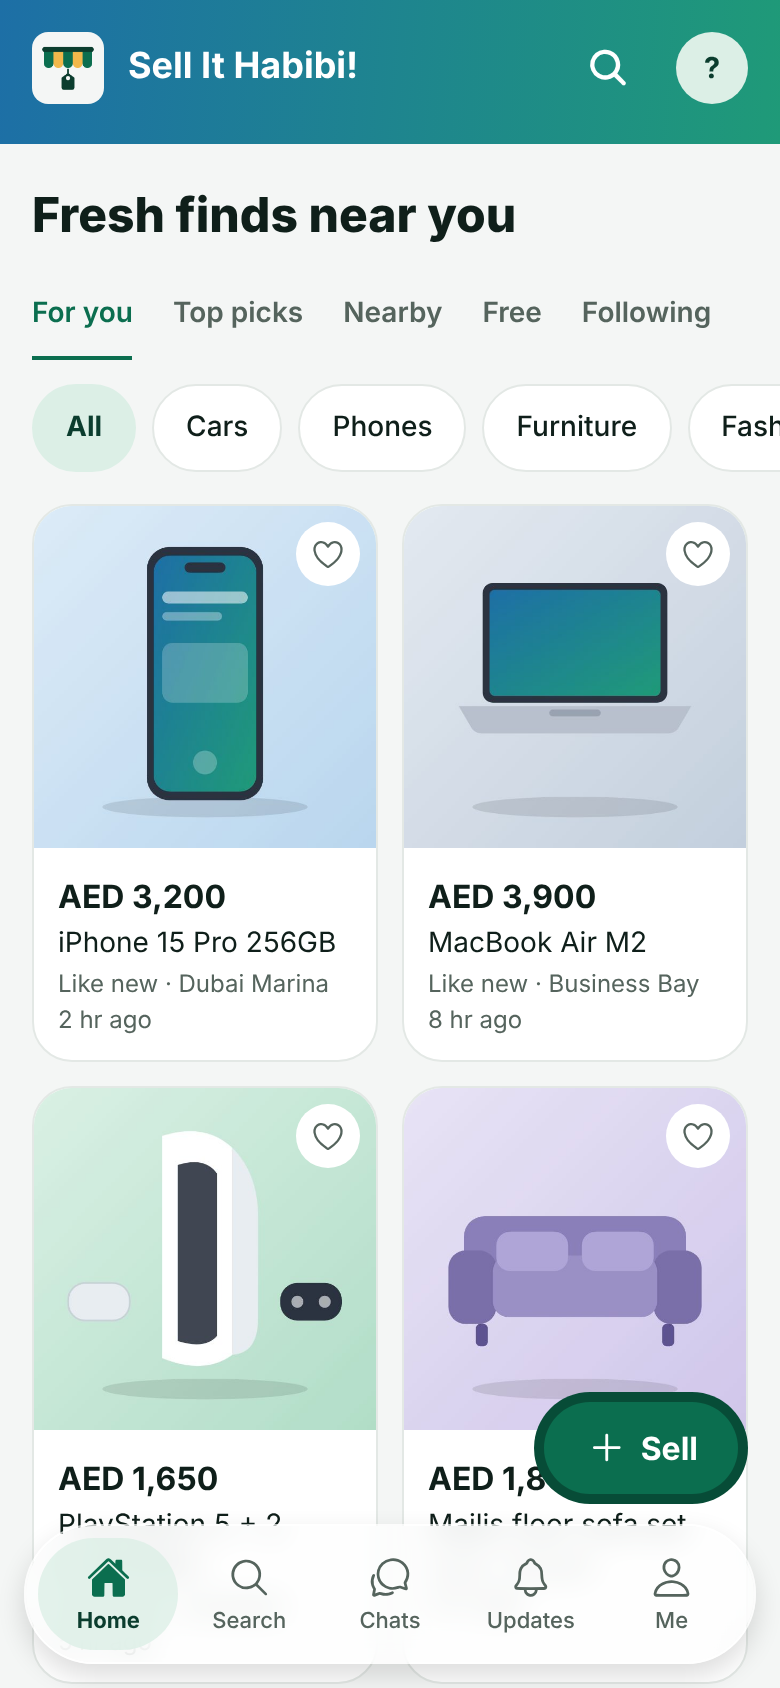
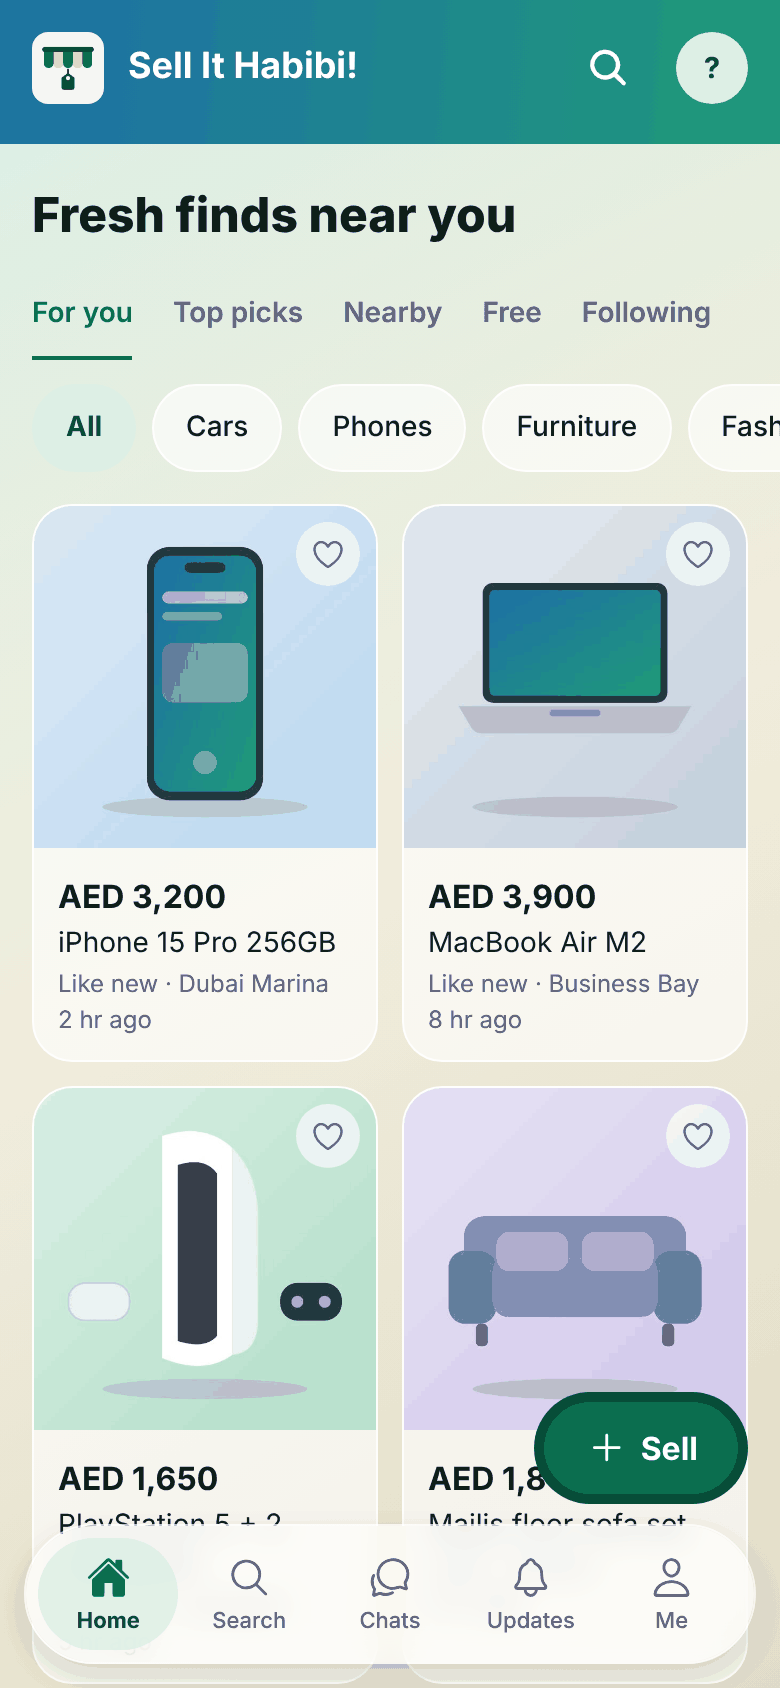
Frosted and Classic looks across the app, chosen in Settings
Claude-Session: https://claude.ai/code/session_01Uz4Rt3sdvRf6DwBthvUspD

diff --git a/providers/prefs-provider.tsx b/providers/prefs-provider.tsx
@@ -4,11 +4,12 @@ import { createContext, useCallback, useContext, useEffect, useMemo, useState, t
 import { I18nManager, Platform } from 'react-native';
 
 import { DEFAULT_COUNTRY, getCountry, type Country, type CountryCode } from '@/constants/countries';
+import { type Look } from '@/constants/looks';
 import { isRtl, translate, type Language, type TranslationKey } from '@/i18n';
 
 const KEY = 'sih.prefs.v1';
 
-type Stored = { language?: Language; country?: CountryCode; notifications?: boolean };
+type Stored = { language?: Language; country?: CountryCode; notifications?: boolean; look?: Look };
 
 type Prefs = {
   ready: boolean;
@@ -21,6 +22,8 @@ type Prefs = {
   /** BCP 47 tag for Intl formatting. Latin digits are kept on purpose; they are common across the Gulf. */
   locale: string;
   notifications: boolean;
+  look: Look;
+  setLook: (l: Look) => void;
   setLanguage: (l: Language) => void;
   setCountry: (c: CountryCode) => void;
   setNotifications: (on: boolean) => void;
@@ -42,6 +45,7 @@ export function PrefsProvider({ children }: { children: ReactNode }) {
   const [language, setLang] = useState<Language>('en');
   const [countryCode, setCountryCode] = useState<CountryCode>(DEFAULT_COUNTRY);
   const [notifications, setNotif] = useState(true);
+  const [look, setLookState] = useState<Look>('frosted');
 
   useEffect(() => {
     (async () => {
@@ -55,6 +59,7 @@ export function PrefsProvider({ children }: { children: ReactNode }) {
       setLang(stored.language ?? defaults.language);
       setCountryCode(stored.country ?? defaults.country);
       setNotif(stored.notifications ?? true);
+      setLookState(stored.look === 'classic' ? 'classic' : 'frosted');
       setReady(true);
     })();
   }, []);
@@ -92,6 +97,11 @@ export function PrefsProvider({ children }: { children: ReactNode }) {
       currency: country.currency,
       locale: language === 'ar' ? 'ar-AE-u-nu-latn' : 'en-AE',
       notifications,
+      look,
+      setLook: (l) => {
+        setLookState(l);
+        persist({ look: l });
+      },
       setLanguage: (l) => {
         setLang(l);
         persist({ language: l });
@@ -106,7 +116,7 @@ export function PrefsProvider({ children }: { children: ReactNode }) {
       },
       t: (key, vars) => translate(language, key, vars),
     };
-  }, [ready, language, rtl, countryCode, notifications, persist]);
+  }, [ready, language, rtl, countryCode, notifications, look, persist]);
 
   return <Ctx.Provider value={value}>{children}</Ctx.Provider>;
 }

diff --git a/components/ui/frost.tsx b/components/ui/frost.tsx
@@ -2,25 +2,30 @@ import { BlurView } from 'expo-blur';
 import type { ReactNode } from 'react';
 import { StyleSheet, View, useColorScheme, type StyleProp, type ViewStyle } from 'react-native';
 
+import { usePrefs } from '@/providers/prefs-provider';
+
 type Props = { children: ReactNode; className?: string; style?: StyleProp<ViewStyle>; intensity?: number };
 
 /**
- * Frosted-glass surface, as in the Family Expenses app: the content behind it shows through, blurred,
- * under a translucent tint and a hairline edge. Callers supply shape (rounded-*) and padding.
+ * Floating chrome (tab bar, pinned footers, sheets). Frosted look: the content behind it shows through, blurred,
+ * under a translucent tint and a hairline edge. Classic look: a flat solid surface with a plain border.
+ * Callers supply shape (rounded-*) and padding.
  */
 export function Frost({ children, className = '', style, intensity = 40 }: Props) {
+  const { look } = usePrefs();
   const dark = useColorScheme() === 'dark';
+  const shadow = { shadowColor: '#000', shadowOpacity: dark ? 0.35 : 0.14, shadowRadius: 14, shadowOffset: { width: 0, height: 6 }, elevation: 6 };
+
+  if (look !== 'frosted') {
+    return (
+      <View className={`overflow-hidden border border-line bg-surface dark:border-line-dark dark:bg-surface-dark ${className}`} style={[{ ...shadow, shadowOpacity: shadow.shadowOpacity * 0.7, elevation: 4 }, style]}>
+        {children}
+      </View>
+    );
+  }
   return (
-    <View
-      className={`overflow-hidden border ${dark ? 'border-white/10' : 'border-white/70'} ${className}`}
-      style={[{ shadowColor: '#000', shadowOpacity: dark ? 0.35 : 0.14, shadowRadius: 14, shadowOffset: { width: 0, height: 6 }, elevation: 6 }, style]}>
-      <BlurView
-        pointerEvents="none"
-        intensity={intensity}
-        tint={dark ? 'dark' : 'light'}
-        blurMethod="dimezisBlurViewSdk31Plus"
-        style={StyleSheet.absoluteFill}
-      />
+    <View className={`overflow-hidden border ${dark ? 'border-white/10' : 'border-white/70'} ${className}`} style={[shadow, style]}>
+      <BlurView pointerEvents="none" intensity={intensity} tint={dark ? 'dark' : 'light'} blurMethod="dimezisBlurViewSdk31Plus" style={StyleSheet.absoluteFill} />
       <View pointerEvents="none" style={[StyleSheet.absoluteFill, { backgroundColor: dark ? 'rgba(20,28,24,0.55)' : 'rgba(255,255,255,0.62)' }]} />
       {children}
     </View>

diff --git a/app/thread/[id].tsx b/app/thread/[id].tsx
@@ -6,6 +6,7 @@ import { useCallback, useEffect, useMemo, useState } from 'react';
 import { ActivityIndicator, FlatList, KeyboardAvoidingView, Platform, Pressable, ScrollView, Text, TextInput, View } from 'react-native';
 import { SafeAreaView } from 'react-native-safe-area-context';
 
+import { BackdropLayer } from '@/components/ui/backdrop-layer';
 import { MessageBubble } from '@/components/chat/message-bubble';
 import { MeetupSheet, OfferSheet, SafetySheet } from '@/components/chat/thread-sheets';
 import { EmptyState } from '@/components/listings/empty-state';
@@ -89,7 +90,8 @@ export default function ThreadScreen() {
 
   if (thread.loading) {
     return (
-      <SafeAreaView className="flex-1 items-center justify-center bg-canvas dark:bg-canvas-dark">
+      <SafeAreaView className="flex-1 items-center justify-center">
+        <BackdropLayer />
         <ActivityIndicator />
       </SafeAreaView>
     );
@@ -97,7 +99,8 @@ export default function ThreadScreen() {
   const th = thread.data;
   if (!th || thread.failed) {
     return (
-      <SafeAreaView className="flex-1 bg-canvas dark:bg-canvas-dark">
+      <SafeAreaView className="flex-1">
+        <BackdropLayer />
         <EmptyState message={t('chat.loadFailed')} actionLabel={t('common.back')} onAction={() => (router.canGoBack() ? router.back() : router.replace('/'))} />
       </SafeAreaView>
     );
@@ -129,7 +132,8 @@ export default function ThreadScreen() {
   };
 
   return (
-    <SafeAreaView className="flex-1 bg-canvas dark:bg-canvas-dark">
+    <SafeAreaView className="flex-1">
+      <BackdropLayer />
       <KeyboardAvoidingView behavior={Platform.OS === 'ios' ? 'padding' : undefined} className="mx-auto w-full max-w-lg flex-1">
         {/* Header */}
         <View className="flex-row items-center gap-2 px-2 pt-2">

diff --git a/components/ui/screen.tsx b/components/ui/screen.tsx
@@ -4,6 +4,7 @@ import type { ReactNode } from 'react';
 import { Pressable, ScrollView, Text, View } from 'react-native';
 import { SafeAreaView } from 'react-native-safe-area-context';
 
+import { BackdropLayer } from '@/components/ui/backdrop-layer';
 import { Frost } from '@/components/ui/frost';
 import { Colors } from '@/constants/theme';
 import { usePrefs } from '@/providers/prefs-provider';
@@ -35,7 +36,8 @@ type Props = { title: string; children: ReactNode; back?: boolean; footer?: Reac
 /** Standard page for forms and settings: header with back arrow, centered column on wide web, optional pinned footer. */
 export function Screen({ title, children, back = true, footer }: Props) {
   return (
-    <SafeAreaView className="flex-1 bg-canvas dark:bg-canvas-dark">
+    <SafeAreaView className="flex-1">
+      <BackdropLayer />
       <ScreenHeader title={title} back={back} />
       <ScrollView keyboardShouldPersistTaps="handled" contentContainerClassName="mx-auto w-full max-w-lg gap-5 px-5 pb-8 pt-4">
         {children}
@@ -52,7 +54,8 @@ export function Screen({ title, children, back = true, footer }: Props) {
 /** Header plus a full-width list below it (grids use the whole window, not the form column). */
 export function ListScreen({ title, children }: { title: string; children: ReactNode }) {
   return (
-    <SafeAreaView className="flex-1 bg-canvas dark:bg-canvas-dark">
+    <SafeAreaView className="flex-1">
+      <BackdropLayer />
       <ScreenHeader title={title} />
       <View className="flex-1 pt-3">{children}</View>
     </SafeAreaView>

diff --git a/app/_layout.tsx b/app/_layout.tsx
@@ -1,5 +1,6 @@
 import '../global.css';
 
+import { vars } from 'nativewind';
 import { Stack, type ErrorBoundaryProps } from 'expo-router';
 import * as SplashScreen from 'expo-splash-screen';
 import { StatusBar } from 'expo-status-bar';
@@ -9,6 +10,7 @@ import { SafeAreaProvider } from 'react-native-safe-area-context';
 
 import { CrashNotice } from '@/components/crash-notice';
 import { PushRegistrar } from '@/components/push-registrar';
+import { LOOK_VARS } from '@/constants/looks';
 import { crashText, installCrashCapture, saveCrash } from '@/lib/crash';
 import { AuthProvider, useAuth } from '@/providers/auth-provider';
 import { EngagementProvider } from '@/providers/engagement-provider';
@@ -87,6 +89,12 @@ function Routes() {
   );
 }
 
+/** Applies the chosen look's colour variables to everything below. */
+function LookRoot({ children }: { children: React.ReactNode }) {
+  const { look } = usePrefs();
+  return <View style={[{ flex: 1 }, vars(LOOK_VARS[look])]}>{children}</View>;
+}
+
 export default function RootLayout() {
   // Never leave the splash screen up for good, even if something is slow to load.
   useEffect(() => {
@@ -102,7 +110,9 @@ export default function RootLayout() {
           <EngagementProvider>
             <InboxProvider>
               <PushRegistrar />
-              <Routes />
+              <LookRoot>
+                <Routes />
+              </LookRoot>
             </InboxProvider>
           </EngagementProvider>
         </AuthProvider>

diff --git a/components/ui/sheet.tsx b/components/ui/sheet.tsx
@@ -1,7 +1,8 @@
 import type { ReactNode } from 'react';
-import { Modal, Pressable, ScrollView, Text, View } from 'react-native';
+import { Modal, Pressable, ScrollView, Text } from 'react-native';
 import { useSafeAreaInsets } from 'react-native-safe-area-context';
 
+import { Frost } from '@/components/ui/frost';
 import { usePrefs } from '@/providers/prefs-provider';
 
 type Props = { visible: boolean; title: string; onClose: () => void; children: ReactNode };
@@ -13,14 +14,14 @@ export function Sheet({ visible, title, onClose, children }: Props) {
   return (
     <Modal visible={visible} transparent animationType="slide" onRequestClose={onClose} statusBarTranslucent>
       <Pressable accessibilityLabel={t('common.cancel')} onPress={onClose} className="flex-1 bg-black/50" />
-      <View className="max-h-[85%] w-full self-center rounded-t-3xl bg-canvas px-5 pt-5 dark:bg-canvas-dark" style={{ paddingBottom: insets.bottom + 16, maxWidth: 560 }}>
+      <Frost className="max-h-[85%] w-full self-center rounded-t-3xl border-b-0 px-5 pt-5" intensity={70} style={{ paddingBottom: insets.bottom + 16, maxWidth: 560 }}>
         <Text accessibilityRole="header" className="mb-3 text-xl font-bold text-ink dark:text-ink-dark">
           {title}
         </Text>
         <ScrollView keyboardShouldPersistTaps="handled" contentContainerClassName="gap-4 pb-2">
           {children}
         </ScrollView>
-      </View>
+      </Frost>
     </Modal>
   );
 }

diff --git a/app/settings.tsx b/app/settings.tsx
@@ -5,11 +5,12 @@ import { Chip } from '@/components/ui/chip';
 import { CountryChips } from '@/components/ui/country-chips';
 import { Screen } from '@/components/ui/screen';
 import { Colors } from '@/constants/theme';
+import { LOOKS } from '@/constants/looks';
 import { LANGUAGES } from '@/i18n';
 import { usePrefs } from '@/providers/prefs-provider';
 
 export default function Settings() {
-  const { t, language, setLanguage, country, setCountry, notifications, setNotifications, needsRestart, currency } = usePrefs();
+  const { t, language, setLanguage, country, setCountry, notifications, setNotifications, needsRestart, look, setLook, currency } = usePrefs();
   return (
     <Screen title={t('settings.title')}>
       <View className="gap-2">
@@ -20,6 +21,15 @@ export default function Settings() {
           ))}
         </View>
         {needsRestart ? <Text className="text-xs text-muted dark:text-muted-dark">{t('settings.restart')}</Text> : null}
+      </View>
+
+      <View className="gap-2">
+        <Text className="text-base font-bold text-ink dark:text-ink-dark">{t('settings.look')}</Text>
+        <View className="flex-row flex-wrap gap-2">
+          {LOOKS.map((l) => (
+            <Chip key={l} label={t(l === 'frosted' ? 'settings.lookFrosted' : 'settings.lookClassic')} selected={l === look} onPress={() => setLook(l)} />
+          ))}
+        </View>
       </View>
 
       <View className="gap-2">

diff --git a/components/ui/backdrop-layer.tsx b/components/ui/backdrop-layer.tsx
@@ -1,0 +1,30 @@
+import { LinearGradient } from 'expo-linear-gradient';
+import { StyleSheet, View, useColorScheme } from 'react-native';
+
+import { usePrefs } from '@/providers/prefs-provider';
+
+/**
+ * Screen background. Frosted look: a soft colour wash so the glass surfaces have something to show through.
+ * Put it first inside the screen's root view. In the Classic look it is the flat canvas colour.
+ */
+export function BackdropLayer() {
+  const { look } = usePrefs();
+  const dark = useColorScheme() === 'dark';
+  if (look !== 'frosted') return <View pointerEvents="none" style={[StyleSheet.absoluteFill, { backgroundColor: dark ? '#0E1512' : '#F4F6F5' }]} />;
+  return (
+    <View pointerEvents="none" style={StyleSheet.absoluteFill}>
+      <LinearGradient
+        colors={dark ? ['#0F2A21', '#0E1512', '#0F1D2B'] : ['#D9EFE5', '#F1F6F4', '#DCEAF5']}
+        start={{ x: 0, y: 0 }}
+        end={{ x: 1, y: 1 }}
+        style={StyleSheet.absoluteFill}
+      />
+      <LinearGradient
+        colors={dark ? ['rgba(76,195,138,0.16)', 'rgba(76,195,138,0)'] : ['rgba(242,184,75,0.28)', 'rgba(242,184,75,0)']}
+        start={{ x: 1, y: 1 }}
+        end={{ x: 0.2, y: 0.4 }}
+        style={StyleSheet.absoluteFill}
+      />
+    </View>
+  );
+}

diff --git a/app/(tabs)/chats.tsx b/app/(tabs)/chats.tsx
@@ -2,6 +2,7 @@ import { router } from 'expo-router';
 import { ActivityIndicator, FlatList, Pressable, Text, View } from 'react-native';
 import { SafeAreaView } from 'react-native-safe-area-context';
 
+import { BackdropLayer } from '@/components/ui/backdrop-layer';
 import { EmptyState } from '@/components/listings/empty-state';
 import { Avatar } from '@/components/ui/avatar';
 import { useBarInset } from '@/hooks/use-bar-inset';
@@ -25,7 +26,8 @@ export default function ChatsScreen() {
     th.lastKind === 'text' ? th.lastPreview : th.lastKind === 'image' ? t('chat.photo') : th.lastKind === 'offer' ? t('chat.offer') : th.lastKind === 'meetup' ? t('chat.meetup') : th.lastKind === 'system' ? t('chat.offer') : '';
 
   return (
-    <SafeAreaView edges={['top']} className="flex-1 bg-canvas dark:bg-canvas-dark">
+    <SafeAreaView edges={['top']} className="flex-1">
+      <BackdropLayer />
       <Text accessibilityRole="header" className="px-5 pb-2 pt-3 text-3xl font-extrabold text-ink dark:text-ink-dark">
         {t('chats.title')}
       </Text>

diff --git a/app/(tabs)/updates.tsx b/app/(tabs)/updates.tsx
@@ -3,6 +3,7 @@ import { router } from 'expo-router';
 import { ActivityIndicator, FlatList, Pressable, Text, View } from 'react-native';
 import { SafeAreaView } from 'react-native-safe-area-context';
 
+import { BackdropLayer } from '@/components/ui/backdrop-layer';
 import { EmptyState } from '@/components/listings/empty-state';
 import { Avatar } from '@/components/ui/avatar';
 import { Colors } from '@/constants/theme';
@@ -36,7 +37,8 @@ export default function UpdatesScreen() {
   const hasUnread = (data ?? []).some((u) => !u.read);
 
   return (
-    <SafeAreaView edges={['top']} className="flex-1 bg-canvas dark:bg-canvas-dark">
+    <SafeAreaView edges={['top']} className="flex-1">
+      <BackdropLayer />
       <View className="flex-row items-center justify-between px-5 pb-2 pt-3">
         <Text accessibilityRole="header" className="text-3xl font-extrabold text-ink dark:text-ink-dark">
           {t('updates.title')}

diff --git a/app/(tabs)/sell.tsx b/app/(tabs)/sell.tsx
@@ -3,6 +3,7 @@ import { router } from 'expo-router';
 import { Text, View } from 'react-native';
 import { SafeAreaView } from 'react-native-safe-area-context';
 
+import { BackdropLayer } from '@/components/ui/backdrop-layer';
 import { Button } from '@/components/ui/button';
 import { Colors } from '@/constants/theme';
 import { useAuth } from '@/providers/auth-provider';
@@ -14,7 +15,8 @@ export default function SellScreen() {
   const signedIn = status === 'signedIn';
 
   return (
-    <SafeAreaView className="flex-1 bg-canvas dark:bg-canvas-dark">
+    <SafeAreaView className="flex-1">
+      <BackdropLayer />
       <View className="mx-auto w-full max-w-lg flex-1 justify-center gap-4 px-5">
         <View className="items-center gap-3 rounded-card bg-surface p-6 dark:bg-surface-dark">
           <View className="h-16 w-16 items-center justify-center rounded-full bg-brand-50 dark:bg-hero-dark">

diff --git a/components/ui/placeholder-screen.tsx b/components/ui/placeholder-screen.tsx
@@ -1,6 +1,7 @@
 import { Ionicons } from '@expo/vector-icons';
 import { Text, View } from 'react-native';
 
+import { BackdropLayer } from '@/components/ui/backdrop-layer';
 import type { IconName } from '@/constants/navigation';
 import { Colors } from '@/constants/theme';
 
@@ -8,7 +9,8 @@ type Props = { icon: IconName; title: string; subtitle: string };
 
 export function PlaceholderScreen({ icon, title, subtitle }: Props) {
   return (
-    <View className="flex-1 items-center justify-center gap-3 bg-canvas p-8 dark:bg-canvas-dark">
+    <View className="flex-1 items-center justify-center gap-3  p-8">
+      <BackdropLayer />
       <Ionicons name={icon} size={56} color={Colors.primary} />
       <Text className="text-2xl font-bold text-ink dark:text-ink-dark">{title}</Text>
       <Text className="max-w-sm text-center text-muted dark:text-muted-dark">{subtitle}</Text>
